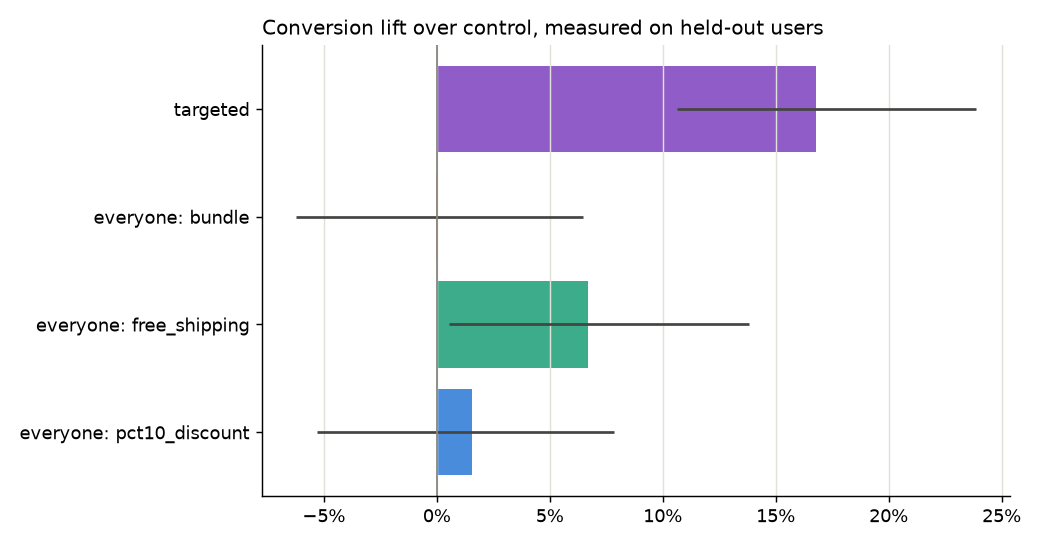
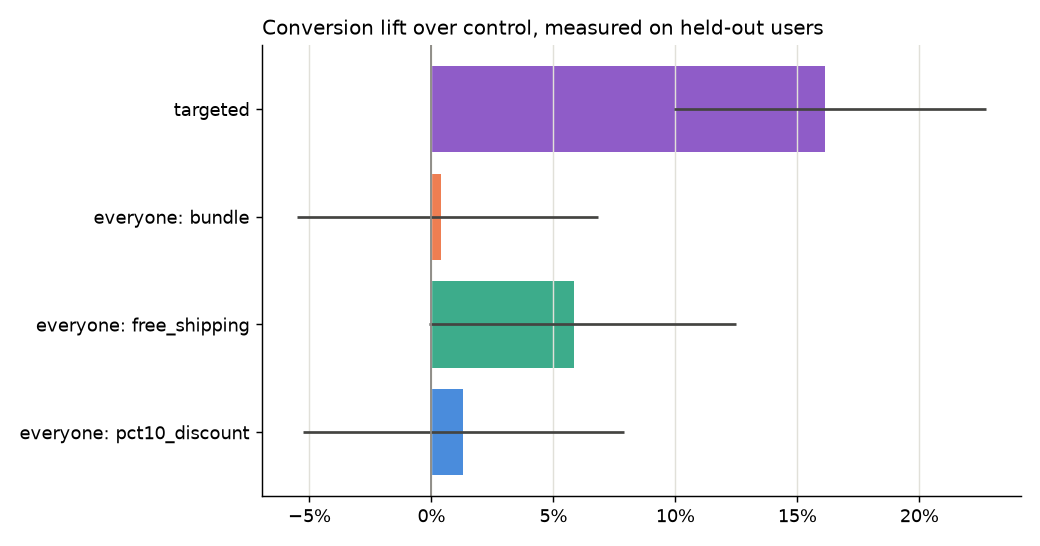
Refresh the published readout after the review fixes
Rerun of the full pipeline on the fixed code. Convergence is now checked
across every sampled parameter (max R-hat 1.007, minimum ESS 997, no
divergences). With self-normalised policy values, everyone getting free
shipping is +5.8% (-0.1% to +12.5%), matching the A/B test, and the
targeted policy is +16.2% (+9.9% to +22.7%). Bayesian assurance under
the read-out's rule is 69%. The manifest keeps all eight task records.
The README's targeting figures are updated to match.

diff --git a/reports/platform/report.md b/reports/platform/report.md
@@ -1,4 +1,4 @@
-# Experiment readout: `release`
+# Experiment readout: `release-2`
 
 ## Summary
 
@@ -11,13 +11,13 @@
 - Hierarchical model: free_shipping for NZ mobile users is a real lift (+42%, 95% interval +10% to +88%).
 - Hierarchical model: free_shipping for AU mobile users is a real lift (+42%, 95% interval +17% to +72%).
 - Hierarchical model: free_shipping for IE mobile users is a real lift (+38%, 95% interval +7% to +80%).
-- Sending each user their best predicted offer lifts conversion +16.8% over control (95% interval +10.6% to +23.9%), measured on users the models never trained on.
+- Sending each user their best predicted offer lifts conversion +16.2% over control (95% interval +9.9% to +22.7%), measured on users the models never trained on.
 
 ## 1. Launch plan (before any data)
 
 - Baseline 6.9%, smallest lift worth detecting 10%, power 80%, alpha 0.05 across 3 offers (Dunnett (many offers vs one control), critical z 2.349 vs Bonferroni 2.394).
 - 28,723 users per arm, 117,000 planned with a 1% buffer, about 22 days.
-- Simulated power at the target lift: bundle 79.7%, free_shipping 79.5%, pct10_discount 79.8%; family-wise false positives 5.1%; Bayesian assurance 80%.
+- Simulated power at the target lift: bundle 79.7%, free_shipping 79.5%, pct10_discount 79.8%; family-wise false positives 5.1%; Bayesian assurance 69% (chance the read-out calls an offer at the target lift a real lift, beating +2%).
 
 | Segment | Share | Users per arm | Smallest detectable lift alone |
 |---|---:|---:|---:|
@@ -51,7 +51,7 @@
 
 ## 4. Hierarchical Bayesian model
 
-Segments: market x device x tenure, partially pooled. Sampler: R-hat max 1.005, ESS min 997, 0 divergences (converged).
+Segments: market x device x tenure, partially pooled. Sampler: R-hat max 1.007, ESS min 997, 0 divergences (converged).
 Prior predictive: 90% of prior control rates in 1.2% to 30.9%. Posterior predictive: 99% of cells inside the 90% interval, chi-square Bayesian p 0.88 (passed).
 
 ### Overall
@@ -98,13 +98,15 @@ Prior predictive: 90% of prior control rates in 1.2% to 30.9%. Posterior predict
 
 ## 5. Uplift modelling: who responds to which offer
 
+Policy values are self-normalised inverse propensity estimates on users the models never trained on. The intervals are paired bootstrap intervals for each policy on its own; they are not adjusted for comparing several fixed offers, which is what the Dunnett-adjusted test in section 3 is for.
+
 | Policy | Conversion | Lift vs control | 95% interval |
 |---|---:|---:|---|
-| all_control | 6.81% | +0.0% | +0.0% to +0.0% |
-| all_pct10_discount | 6.91% | +1.6% | -5.3% to +7.8% |
-| all_free_shipping | 7.26% | +6.7% | +0.5% to +13.8% |
-| all_bundle | 6.80% | -0.1% | -6.2% to +6.5% |
-| targeted | 7.95% | +16.8% | +10.6% to +23.9% |
+| all_control | 6.82% | +0.0% | +0.0% to +0.0% |
+| all_pct10_discount | 6.90% | +1.3% | -5.3% to +7.9% |
+| all_free_shipping | 7.22% | +5.8% | -0.1% to +12.5% |
+| all_bundle | 6.84% | +0.4% | -5.5% to +6.8% |
+| targeted | 7.92% | +16.2% | +9.9% to +22.7% |
 
 Targeted allocation: pct10_discount 33%, free_shipping 32%, bundle 24%, control 11%
 
@@ -127,15 +129,15 @@ Against the truth the targeted policy captures 81% of what a perfect oracle woul
 
 ## 7. Reproducibility
 
-- Config fingerprint `5aaec13f585491ff`, git commit `32ed54b4c5`, Python 3.12.10.
+- Config fingerprint `5aaec13f585491ff`, git commit `017fd20f20`, Python 3.12.10.
 - Packages: abkit 0.2.0, arviz 1.3.0, numpy 2.5.4, numpyro 0.22.0, pandas 3.0.6, pymc 6.3.2, scikit-learn 1.9.1, scipy 1.18.1
 
 | Task | Status | Seconds |
 |---|---|---:|
 | aggregate | success | 0.9 |
-| bundled | success | 43.5 |
-| extract | success | 1.9 |
-| hierarchical | success | 360.1 |
-| plan | success | 1.2 |
-| uplift | success | 9.1 |
-| validate | success | 3.6 |
+| bundled | success | 46.2 |
+| extract | success | 3.0 |
+| hierarchical | success | 414.9 |
+| plan | success | 1.3 |
+| uplift | success | 16.0 |
+| validate | success | 3.7 |

diff --git a/README.md b/README.md
@@ -40,7 +40,7 @@ against the truth ([full readout](reports/platform/report.md)).
 | Does any offer win? | No. Best is free shipping at +5.8%, Dunnett-adjusted p = 0.15 | Same overall: every offer's 95% interval includes zero |
 | Who does the discount work for? | Not answerable | **+29%** for new customers (+17% to +42%), **-13%** for returning (-19% to -7%) |
 | Does free shipping work anywhere? | Not answerable | **+32% to +42%** on mobile in AU, NZ, IE and CA, the far-shipping markets, two of them too small to test alone |
-| What is targeting worth? | Not answerable | **+16.8% conversion** (+10.6% to +23.9%) on users the models never trained on, 81% of the oracle gain |
+| What is targeting worth? | Not answerable | **+16.2% conversion** (+9.9% to +22.7%) on users the models never trained on, 81% of the oracle gain |
 
 ![Free shipping on mobile, by market](reports/platform/figures/free_shipping_by_market.png)
 
